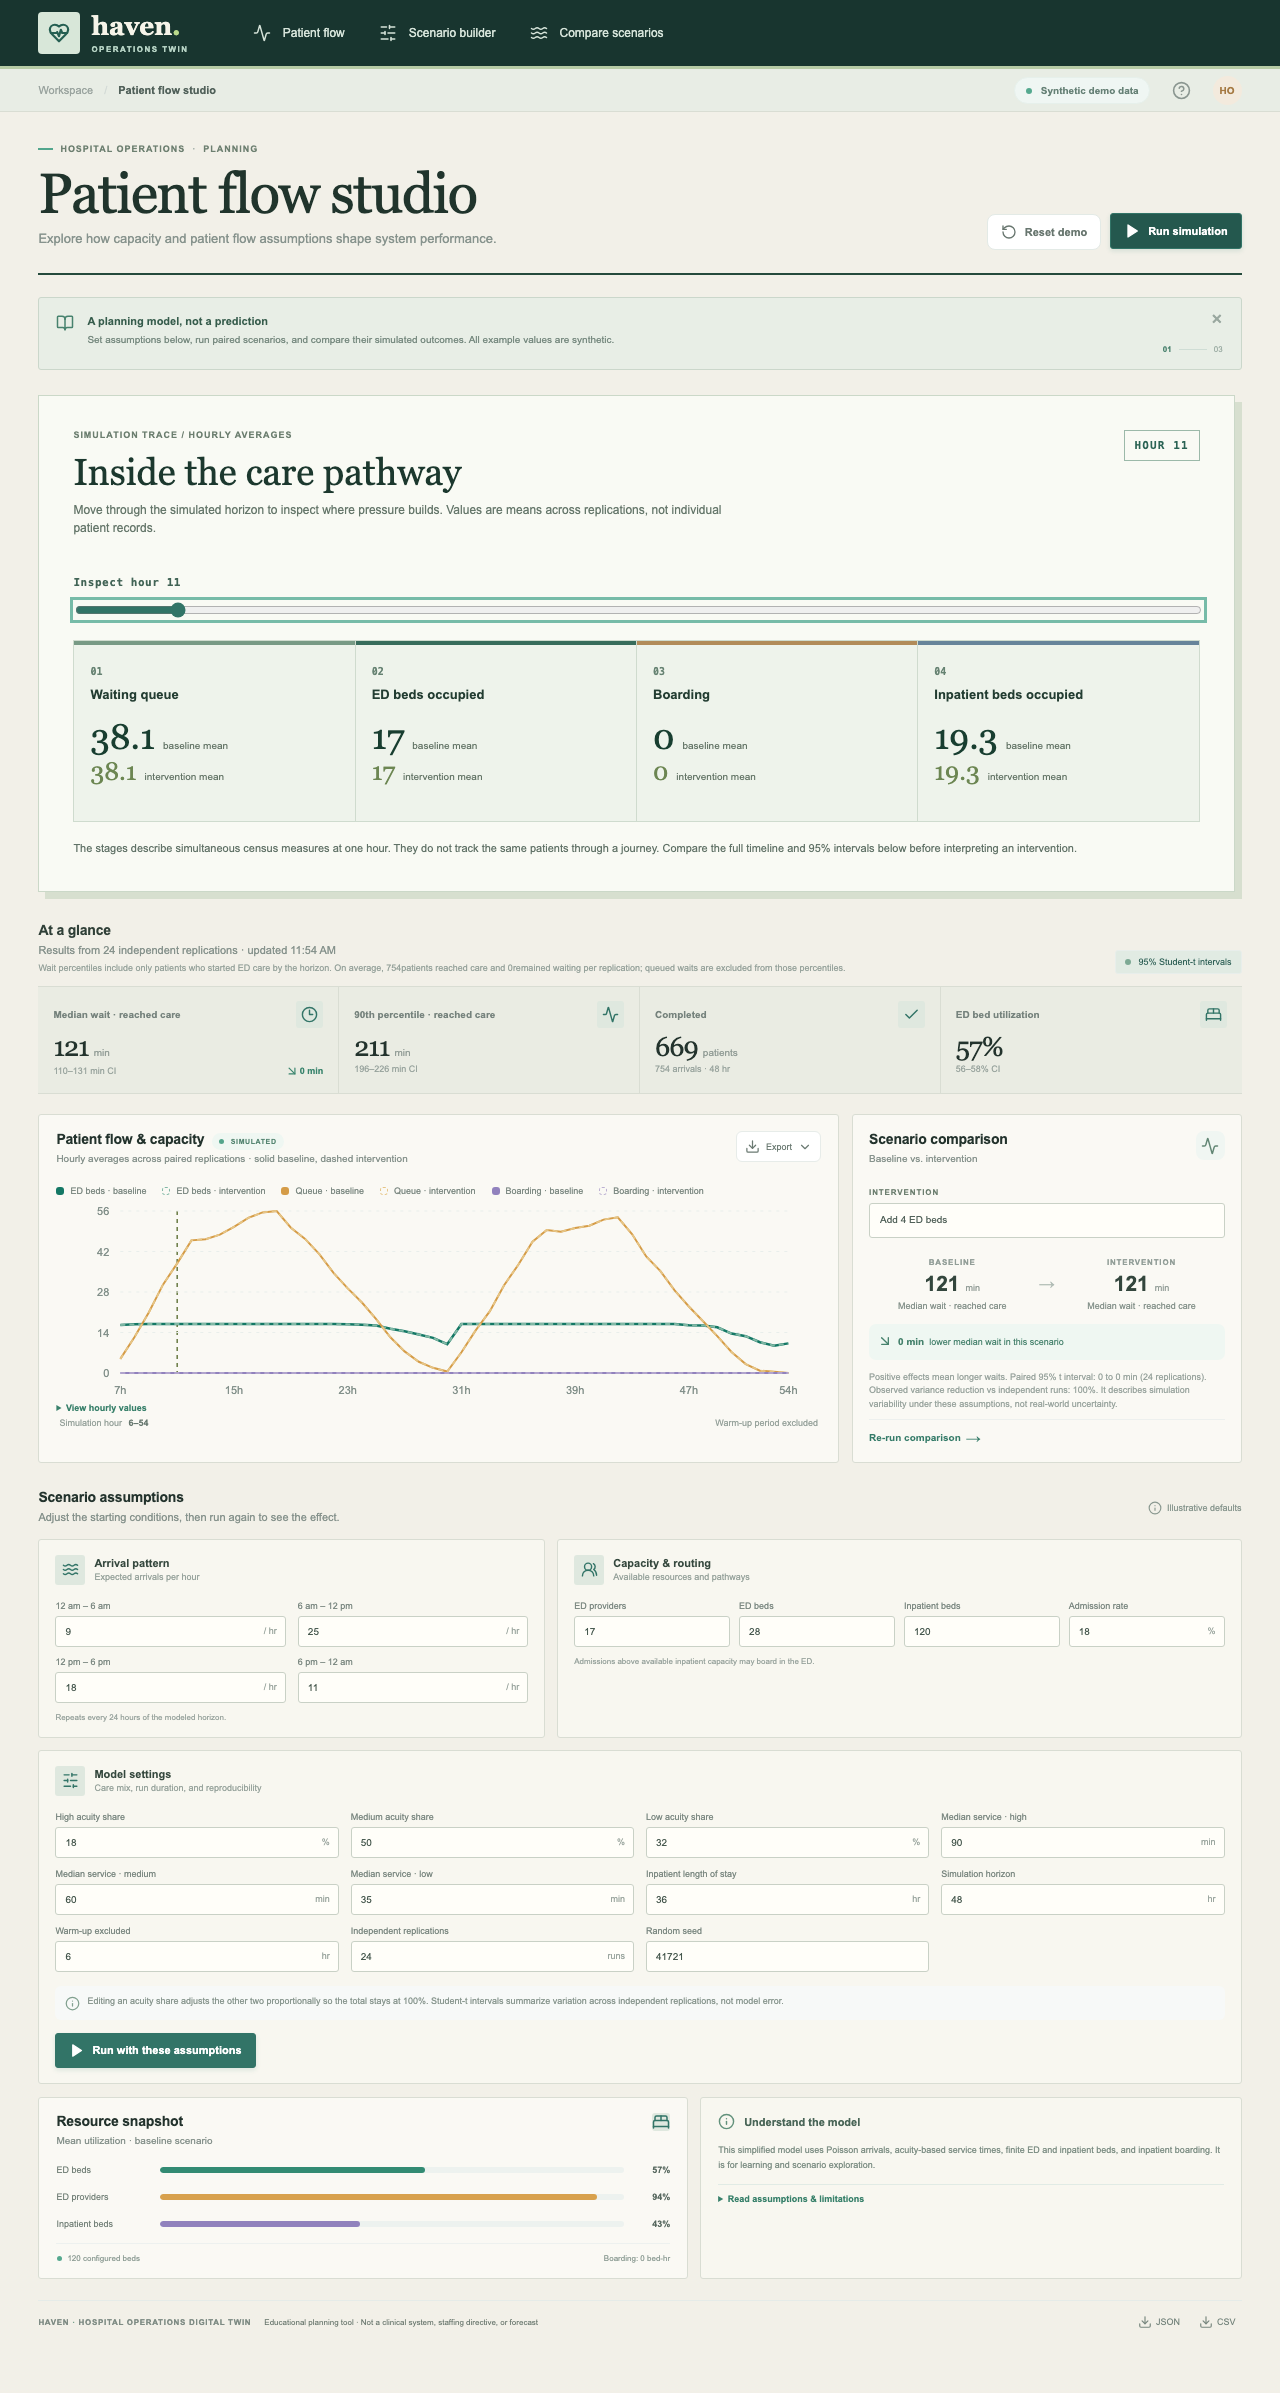
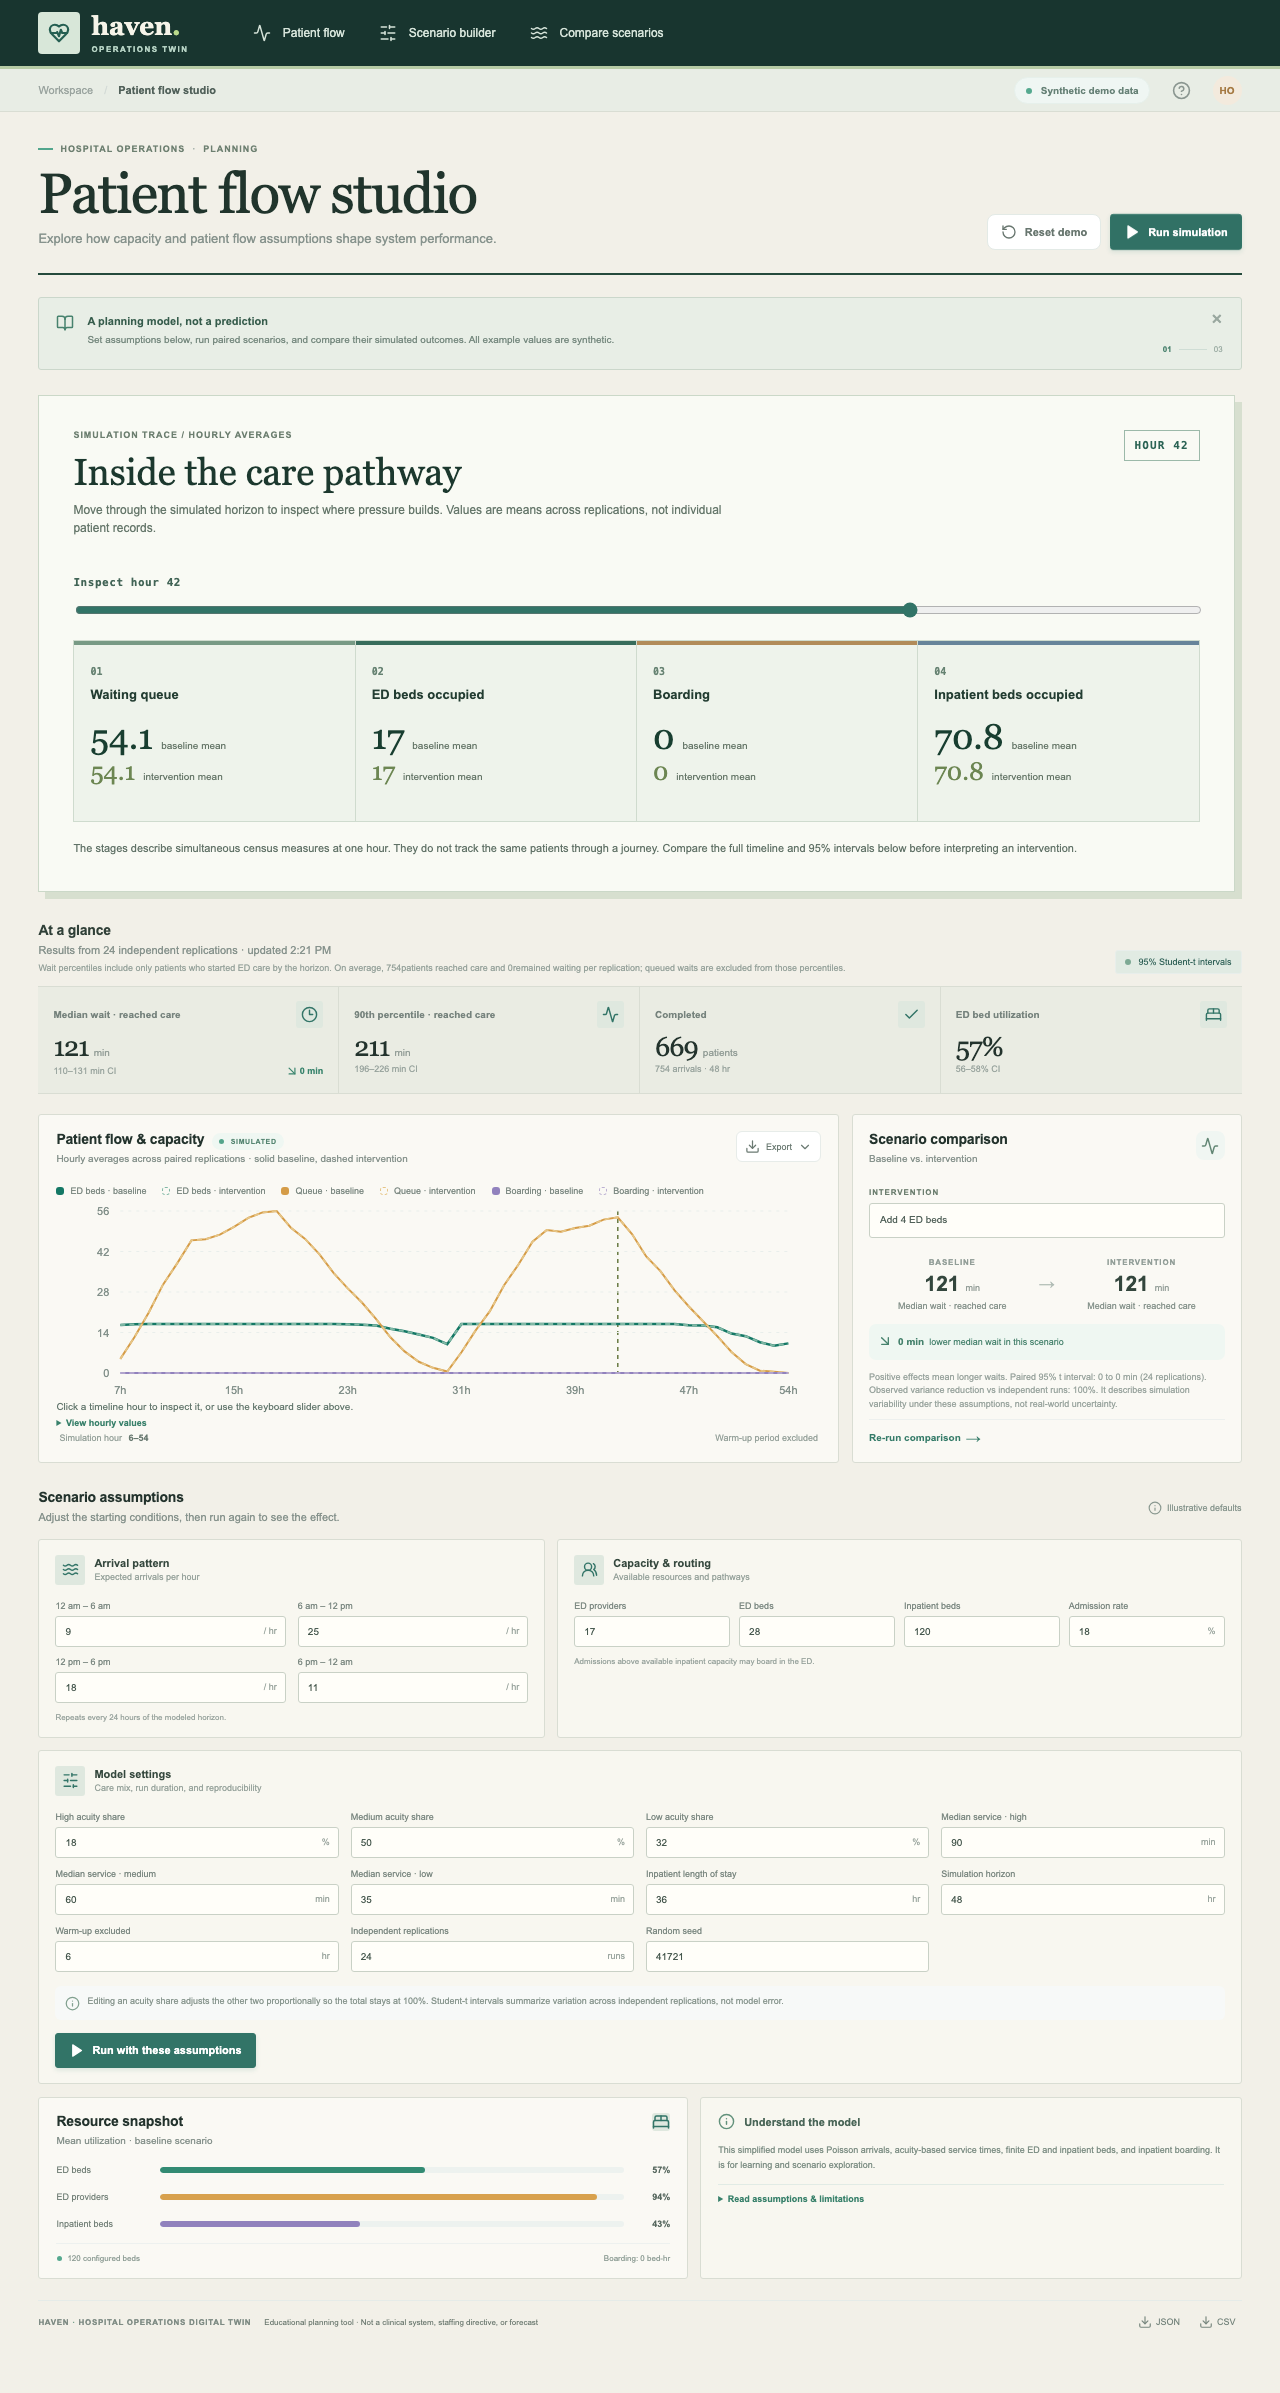
Connect visualizations to result inspectors and document product design

diff --git a/e2e/dashboard.spec.ts b/e2e/dashboard.spec.ts
@@ -4,6 +4,8 @@ import { mkdir, readFile } from "node:fs/promises";
 test("edit the synthetic example, compare scenarios and export results", async ({
   page,
 }) => {
+  const pageErrors: string[] = [];
+  page.on("pageerror", (error) => pageErrors.push(error.message));
   await page.goto("/");
   await expect(page.getByText("Synthetic demo data")).toBeVisible();
   await page.getByLabel("Arrivals per hour 6 am – 12 pm").fill("25");
@@ -12,14 +14,48 @@ test("edit the synthetic example, compare scenarios and export results", async (
   await page.getByRole("slider", { name: "Inspect simulation hour" }).fill("3");
   const hourRow = page.locator(".chart-data tbody tr").nth(3);
   const hour = (await hourRow.locator("th").textContent())!.trim();
-  await expect(page.locator(".flow-inspector")).toContainText(`Inspect hour ${hour}`);
+  await expect(page.locator(".flow-inspector")).toContainText(
+    `Inspect hour ${hour}`,
+  );
   const queue = await hourRow.locator("td").nth(2).textContent();
-  await expect(page.locator(".pathway-stage").first().locator(".stage-values strong")).toHaveText(queue!.trim());
-  await expect(page.locator(".selected-hour-line")).toHaveAttribute("aria-label", `Selected hour ${hour}`);
+  await expect(
+    page.locator(".pathway-stage").first().locator(".stage-values strong"),
+  ).toHaveText(queue!.trim());
+  await expect(page.locator(".selected-hour-line")).toHaveAttribute(
+    "aria-label",
+    `Selected hour ${hour}`,
+  );
   await page.getByRole("slider", { name: "Inspect simulation hour" }).focus();
   await page.keyboard.press("ArrowRight");
-  const nextHour = (await page.locator(".chart-data tbody tr").nth(4).locator("th").textContent())!.trim();
-  await expect(page.locator(".selected-hour-line")).toHaveAttribute("aria-label", `Selected hour ${nextHour}`);
+  const nextHour = (await page
+    .locator(".chart-data tbody tr")
+    .nth(4)
+    .locator("th")
+    .textContent())!.trim();
+  await expect(page.locator(".selected-hour-line")).toHaveAttribute(
+    "aria-label",
+    `Selected hour ${nextHour}`,
+  );
+  const chart = page.locator(".flow-chart");
+  const bounds = (await chart.boundingBox())!;
+  await chart.click({
+    position: { x: bounds.width * 0.75, y: bounds.height / 2 },
+  });
+  const clickedIndex = Number(
+    await page
+      .getByRole("slider", { name: "Inspect simulation hour" })
+      .inputValue(),
+  );
+  expect(clickedIndex).toBeGreaterThan(4);
+  const clickedHour = (await page
+    .locator(".chart-data tbody tr")
+    .nth(clickedIndex)
+    .locator("th")
+    .textContent())!.trim();
+  await expect(page.locator(".selected-hour-line")).toHaveAttribute(
+    "aria-label",
+    `Selected hour ${clickedHour}`,
+  );
   await expect(
     page.getByText(/Results from 24 independent replications/),
   ).toBeVisible({ timeout: 30_000 });
@@ -47,6 +83,7 @@ test("edit the synthetic example, compare scenarios and export results", async (
   const csv = await readFile(csvPath!, "utf8");
   expect(csv).toContain("scenario configuration");
   expect(csv).toContain("Synthetic assumptions only");
+  expect(pageErrors).toEqual([]);
 });
 
 test("scenario assumptions remain available on a mobile screen", async ({
@@ -54,7 +91,9 @@ test("scenario assumptions remain available on a mobile screen", async ({
 }) => {
   await page.setViewportSize({ width: 720, height: 900 });
   await page.goto("/");
-  expect(await page.evaluate(() => document.documentElement.scrollWidth)).toBeLessThanOrEqual(720);
+  expect(
+    await page.evaluate(() => document.documentElement.scrollWidth),
+  ).toBeLessThanOrEqual(720);
   await page.setViewportSize({ width: 390, height: 844 });
   await page.goto("/");
   await expect(
@@ -62,7 +101,9 @@ test("scenario assumptions remain available on a mobile screen", async ({
   ).toBeVisible();
   await expect(page.getByLabel("ED beds")).toBeVisible();
   await page.getByRole("button", { name: "Run simulation" }).click();
-  await expect(page.getByText(/Results from 24 independent replications/)).toBeVisible({ timeout: 30_000 });
+  await expect(
+    page.getByText(/Results from 24 independent replications/),
+  ).toBeVisible({ timeout: 30_000 });
   await mkdir("test-results", { recursive: true });
   await page.screenshot({ path: "test-results/mobile.png", fullPage: true });
 });

diff --git a/src/App.tsx b/src/App.tsx
@@ -630,7 +630,14 @@ export default function App() {
                     className="flow-chart"
                     viewBox="0 0 720 200"
                     role="img"
-                    aria-label="Baseline and intervention emergency department occupancy, waiting queue, and boarding by hour"
+                    aria-label="Baseline and intervention emergency department occupancy, waiting queue, and boarding by hour. Click to inspect an hour; use the slider for keyboard access."
+                    onClick={(event) => {
+                      const bounds = event.currentTarget.getBoundingClientRect();
+                      const x = ((event.clientX - bounds.left) / bounds.width) * 720;
+                      setSelectedHour(
+                        Math.max(0, Math.min(chartData.length - 1, Math.round(((x - 42) / 668) * (chartData.length - 1)))),
+                      );
+                    }}
                   >
                     <title>Patient flow timeline</title>
                     <line
@@ -756,6 +763,7 @@ export default function App() {
                       );
                     })}
                   </svg>
+                  <p className="chart-instruction">Click a timeline hour to inspect it, or use the keyboard slider above.</p>
                   <details className="chart-data">
                     <summary>View hourly values</summary>
                     <div className="table-scroll">

diff --git a/src/styles.css b/src/styles.css
@@ -641,8 +641,14 @@ h1 {
   background: #9182bd;
 }
 .flow-chart {
+  cursor: crosshair;
   width: 100%;
   height: 200px;
+}
+.chart-instruction {
+  margin: 2px 0 6px;
+  color: #63776d;
+  font-size: 10px;
 }
 .chart-foot {
   display: flex;

diff --git a/docs/design-brief.md b/docs/design-brief.md
@@ -1,0 +1,32 @@
+# Haven: product design brief
+
+## Audit and direction
+
+1. **Difference:** A reproducible patient-flow experiment compares two discrete-event simulation runs with paired seeds. It is an educational model, not a clinical dashboard.
+2. **User:** A student or operations analyst exploring how arrival patterns, beds, providers, and admissions affect queues and occupancy.
+3. **Concept:** A calm clinical operations studio built around a care-pathway trace. Forest ink, mineral paper, and measured rules support dense evidence without implying hospital branding.
+4. **Primary action:** Change a scenario, run a baseline/intervention comparison, inspect an hour, then export assumptions and results.
+5. **Technical proof:** The hourly trace and paired intervention statistics show what the event simulation produced; the model notes explain replication and uncertainty.
+6. **Visualization:** Aligned queue, ED occupancy, and boarding time series; a selected-hour marker and numeric pathway stages; an accessible hourly table.
+7. **Remove:** The old dashboard palette and any metric treatment that duplicates the trace without helping interpretation. The palette was removed in the previous release.
+8. **Complete it:** Make the timeline itself select an hour while retaining the keyboard slider and data table. Keep the selected hour synchronized everywhere.
+
+## Implementation map
+
+`src/App.tsx` owns the scenario form, trace, chart, comparison, and exports. `shared/model.ts`, `shared/simulation.ts`, and `shared/statistics.ts` define validated inputs, discrete-event behavior, and intervals. `server/app.ts` exposes the simulation API; `src/csv.ts` exports results. React, Express, and Zod are existing dependencies. `src/styles.css` defines the independent visual system. There is one principal workspace, with anchor navigation rather than decorative routes.
+
+The scenario editor, export controls, trace, and comparison call actual simulation state. All default inputs are synthetic. There is no account, history, patient data, or field calibration. The browser keeps the last result in memory. The existing local verification baseline is 20 unit/API checks and two browser flows; JavaScript was 104,259 gzip bytes before this pass. No measured load bottleneck justifies a new library or client state layer.
+
+## Feature and route inventory
+
+- **Screen:** One responsive study workspace with anchor navigation to trace, assumptions, and comparison. No additional application routes or reusable UI package.
+- **API:** `GET /api/health` reports readiness; `POST /api/simulations` validates and runs the paired scenario. No account or persistence endpoint.
+- **Working controls:** Arrival, capacity, acuity, duration, replication, seed, and intervention inputs; run/reset; hour slider; export menu. The trace, confidence intervals, comparison, resource snapshot, and hourly table are computed from the response.
+- **Presentation only:** Brand mark, section icons, and synthetic status mark. The chart is based on returned hourly values rather than arbitrary display data.
+- **Constraint:** Scientific calibration is absent by design. A longer horizon or more replications increases simulation work, which the API bounds; no measured client-render bottleneck was found.
+
+## Priorities and acceptance
+
+- **P1 completed:** Clicking a chart hour updates the same inspector row as the slider, including intervention values and the selected marker. A browser check must compare the chosen hour with the accessible table.
+- **P2:** Preserve legibility at 390, 720, and desktop widths, keyboard access to the slider, clear synthetic labeling, and exported provenance.
+- **Out of scope:** Patient-level tracking, facility calibration, and clinical recommendations require data and domain validation this app does not have.

diff --git a/README.md b/README.md
@@ -1,6 +1,6 @@
 # Hospital Operations Digital Twin
 
-[Frontend release audit](docs/frontend-audit.md)
+[Frontend release audit](docs/frontend-audit.md) · [Product design brief](docs/design-brief.md)
 
 **Live demo:** [hospital-digital-twin-mocha.vercel.app](https://hospital-digital-twin-mocha.vercel.app/)
 
@@ -37,7 +37,7 @@ Open http://localhost:3001. The app uses no persistence: each simulation result 
 1. Review or change arrivals in four six-hour blocks, acuity mix, service-time medians, ED providers/beds, inpatient beds, and admission share.
 2. Set horizon, warm-up, replication count, and random seed.
 3. Select an intervention (two added ED providers, four added ED beds, or a five percentage point lower admission share) and run the comparison.
-4. Scrub the care-pathway inspector to compare hourly queue, ED occupancy, boarding, and inpatient occupancy means, then inspect wait-time intervals and the full timeline. Export JSON for complete replication output or CSV for summary metrics.
+4. Scrub the care-pathway inspector or click the timeline to compare hourly queue, ED occupancy, boarding, and inpatient occupancy means. The timeline and inspector share one selected hour. Inspect wait-time intervals, then export JSON for complete replication output or CSV for summary metrics.
 
 The comparison pairs runs by reusing the same replication seeds. For each seed, the intervention wait median minus the baseline wait median is computed; the displayed paired effect uses the sample standard error and a two-sided 95% Student-t interval with n−1 degrees of freedom. Positive effects mean longer waits. This interval describes simulation variability under entered assumptions, not real-world or model uncertainty. Individual summary metric intervals also use Student-t critical values, but are not the paired intervention interval.
 

diff --git a/docs/frontend-audit.md b/docs/frontend-audit.md
@@ -1,6 +1,6 @@
 # Frontend release audit — Haven patient flow study
 
-Checked 2026-10-23 against the previous committed redesign (`HEAD` before this release) and the current working build.
+The first table records the 2026-10-23 release against its prior commit. The 2026-10-24 interaction pass is recorded below.
 
 ## Product and information architecture
 
@@ -31,6 +31,13 @@ Bundle measurements sum the compressed generated `assets/*.js` and `assets/*.css
 ## Scientific and operational limits
 
 Hospital simulation is illustrative and does not use clinical or patient data. No screenshot, synthetic example, or model output is evidence of field validation. Public hosting and external data availability are tracked in the README/deployment docs.
+
+## 2026-10-24 interaction pass
+
+- **What changed:** The timeline now selects an hour directly while the slider, marker, pathway values, and hourly table stay synchronized.
+- **Verification:** 20 unit/API tests and 2 browser flows, including chart click, keyboard slider, export, and no client exception.
+- **Bundle after this pass:** 104423 gzip bytes of JavaScript and 6536 gzip bytes of CSS. This is +164 JavaScript gzip bytes against the 2026-10-23 release; no new runtime dependency was added.
+- **Visual review:** Current desktop and phone screenshots were generated by the browser workflows. The interactive screenshots linked from the README show the selected state where relevant.
 
 ## Release checks
 
